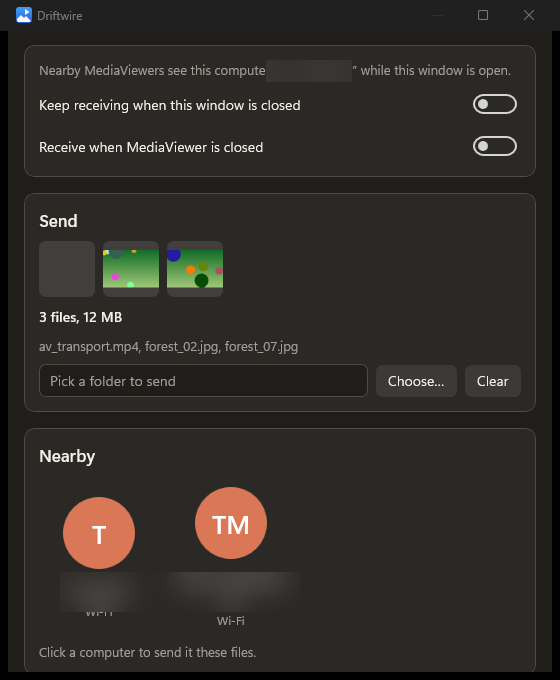
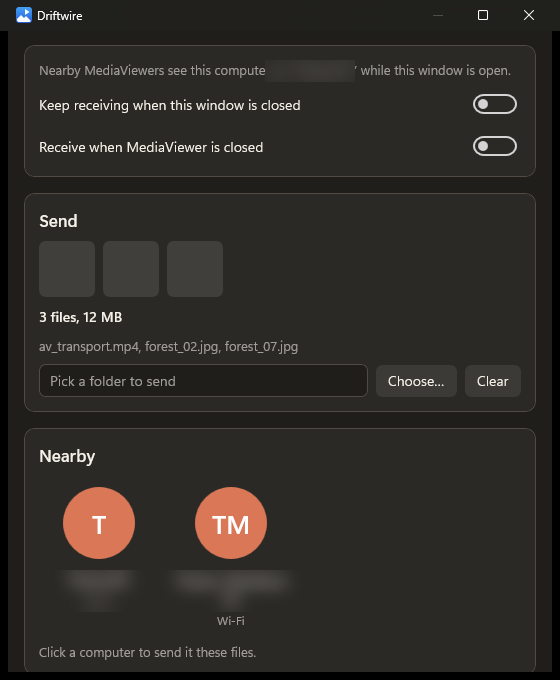
Driftwire path picture fills its card on Windows (#508)
A centred stack centred the `link` node too, so its star column shrank to
nothing and the two computers sat squashed against the badge. A link,
text field, progress bar or separator now fills a centred stack, as on the
Mac. Device names wrap to two centred lines on both hosts, the computers
are top-aligned with the path meeting their middle, and Nearby's tiles are
top-aligned so a wrapped name no longer drops its circle.

diff --git a/src.swift/MediaViewerChrome/Sources/MediaViewerChrome/ScreenView.swift b/src.swift/MediaViewerChrome/Sources/MediaViewerChrome/ScreenView.swift
@@ -1353,7 +1353,9 @@ private struct LinkNode: View {
 
   var body: some View {
     VStack(spacing: MVTheme.space(6)) {
-      HStack(spacing: 0) {
+      // Top-aligned (a two-line name grows downward); the path's middle is lifted to the
+      // circles' middle (24), so it meets each computer at its centre.
+      HStack(alignment: .top, spacing: 0) {
         device(symbol: "laptopcomputer", name: node.string("from") ?? "This computer", mark: nil)
         TimelineView(.animation(minimumInterval: 1.0 / 30.0, paused: !animating)) { t in
           Canvas { ctx, size in
@@ -1362,6 +1364,7 @@ private struct LinkNode: View {
           .overlay(badgeView)
         }
         .frame(height: 64)
+        .padding(.top, 24 - 32)
         device(symbol: nil, name: node.string("to") ?? "", mark: state == "done" ? "checkmark.circle.fill"
                : state == "failed" ? "exclamationmark.circle.fill" : nil)
       }
@@ -1414,8 +1417,8 @@ private struct LinkNode: View {
             .transition(.scale)
         }
       }
-      Text(name).font(MVTheme.font(11)).foregroundStyle(MVTheme.body).lineLimit(1)
-        .frame(maxWidth: 88)
+      Text(name).font(MVTheme.font(11)).foregroundStyle(MVTheme.body).lineLimit(2)
+        .multilineTextAlignment(.center).frame(maxWidth: 88)
     }
     .frame(width: 88)
   }

diff --git a/src.managed/MediaViewer.Chrome/IslandHost.Screens.cs b/src.managed/MediaViewer.Chrome/IslandHost.Screens.cs
@@ -156,8 +156,14 @@ public static partial class IslandHost
                     }
                     if (child is FrameworkElement fe && panel.Orientation == Orientation.Vertical)
                     {
+                        // A node that fills its width on the Mac (`maxWidth: .infinity`, a
+                        // TextField, a ProgressView) still fills in a centred stack: centring a
+                        // link picture shrank its path column to nothing, so the picture was
+                        // two circles squashed against the badge.
+                        bool fills = JStr(c, "type") is "link" or "progress" or "separator" or "text_field";
                         fe.HorizontalAlignment = JStr(n, "align") switch
                         {
+                            _ when fills => HorizontalAlignment.Stretch,
                             "center" => HorizontalAlignment.Center,
                             "end" => HorizontalAlignment.Right,
                             "fill" => HorizontalAlignment.Stretch,
@@ -535,10 +541,13 @@ public static partial class IslandHost
                     Child = new FontIcon { Glyph = mark == "done" ? "" : "", FontFamily = SymbolFont, FontSize = 10, Foreground = new SolidColorBrush(Colors.White) },
                 });
             }
-            var col = new StackPanel { Spacing = 4, Width = 88, VerticalAlignment = VerticalAlignment.Center };
+            var col = new StackPanel { Spacing = 4, Width = 88, VerticalAlignment = VerticalAlignment.Top };
             col.Children.Add(face);
-            TextBlock label = SText(name, Body, UiFontSize - 3, maxLines: 1);
+            // Two lines, as a Nearby tile's name: "The other computer" fits, a long name
+            // ends in an ellipsis on the second line instead of the first.
+            TextBlock label = SText(name, Body, UiFontSize - 3, maxLines: 2);
             label.HorizontalAlignment = HorizontalAlignment.Center;
+            label.TextAlignment = TextAlignment.Center;
             label.TextTrimming = TextTrimming.CharacterEllipsis;
             col.Children.Add(label);
             return col;
@@ -550,8 +559,16 @@ public static partial class IslandHost
         strip.Children.Add(left);
         strip.Children.Add(right);
 
-        // The path, drawn on a canvas sized to its column.
-        var canvas = new Microsoft.UI.Xaml.Controls.Canvas { Height = H, HorizontalAlignment = HorizontalAlignment.Stretch };
+        // The path, drawn on a canvas sized to its column. The devices are top-aligned (a
+        // two-line name grows downward), so the canvas's middle is lifted to the circles'
+        // middle (24): the path meets each computer at its centre.
+        var canvas = new Microsoft.UI.Xaml.Controls.Canvas
+        {
+            Height = H,
+            HorizontalAlignment = HorizontalAlignment.Stretch,
+            VerticalAlignment = VerticalAlignment.Top,
+            Margin = new Thickness(0, 24 - H / 2, 0, 0),
+        };
         Grid.SetColumn(canvas, 1);
         strip.Children.Add(canvas);
         var track = new Microsoft.UI.Xaml.Shapes.Polyline
@@ -849,6 +866,10 @@ public static partial class IslandHost
             Button b = EditButton("", () => SendScreenEvent(at, id, SlotNative.EventActivate, JsonString(itemId)));
             b.Content = tile;
             b.Padding = Pad(4);
+            // Top-aligned, as the Mac's grid (`alignment: .top`): a name that wraps to a
+            // second line must not push its circle below its neighbours'.
+            b.VerticalAlignment = VerticalAlignment.Top;
+            b.VerticalContentAlignment = VerticalAlignment.Top;
             b.AllowFocusOnInteraction = true;
             b.IsTabStop = true;
             AutomationProperties.SetName(b, spoken);

diff --git a/docs/DEVELOPMENT.md b/docs/DEVELOPMENT.md
@@ -2389,6 +2389,14 @@ How Windows draws an add-on's window now is in [25 §10](design/25-open-addons.m
 grouping and empty state in [28](design/28-driftwire.md#what-a-person-sees). Run on a Windows 11
 desktop (MSVC Release, Ninja), one machine.
 
+- **The path picture was squashed on Windows** (owner, after the first round): a centred card
+  centred the `link` node too, so its path column shrank to nothing and the two computers sat
+  against the badge. It now fills the card, as on the Mac; names wrap to two lines and Nearby's
+  circles are top-aligned. Seen in the self-test's captures (`docs/review/508/send-ended.png`,
+  `nearby.png`; the thumbnails are empty there because only `mediaviewer_lab` was built).
+  PR 1 gate, base (`60f0ca1f`) / new / base / new (same native build, each Chrome published from
+  its own source): 0 dropped, p99 16.9 ms, idle presents 0 in all four; all four, base included,
+  miss on one 33.4 ms frame (this machine's ambient miss, with other sessions' labs running).
 - **Screen self-test:** `MV_SCREEN_SELFTEST=<folder>` (with `MV_SCREEN_SELFTEST_FILES=<folder of
   files>`, `MV_SCREEN_SELFTEST_CYCLES=<n>`, default 20) opens Driftwire's window with up to three
   of those files, turns the internet on, makes a code, sends to it, scrolls to the bottom and

diff --git a/docs/design/25-open-addons.md b/docs/design/25-open-addons.md
@@ -790,6 +790,9 @@ blank window):
   and dots that travel the way the bytes go. Only `moving` and `connecting` animate, at 30 fps at
   most, and never with Reduce Motion (Mac) or animations off (Windows); the dots stop when the
   node leaves the tree. Its VoiceOver / Narrator name is `label`, its value the percentage.
+  It always takes the full width, even in a centred stack (a text field, a progress bar and a
+  separator do too, as on the Mac); the two computers are top-aligned, each name on up to two
+  lines, and the path meets them at the circles' middle.
 - **`button` `"copy"`**: a click also puts this text on the clipboard. The host does it, only on
   the click, then reports the click as usual; an add-on has no clipboard call of its own. The
   label says "Copied" for 1.5 s.
